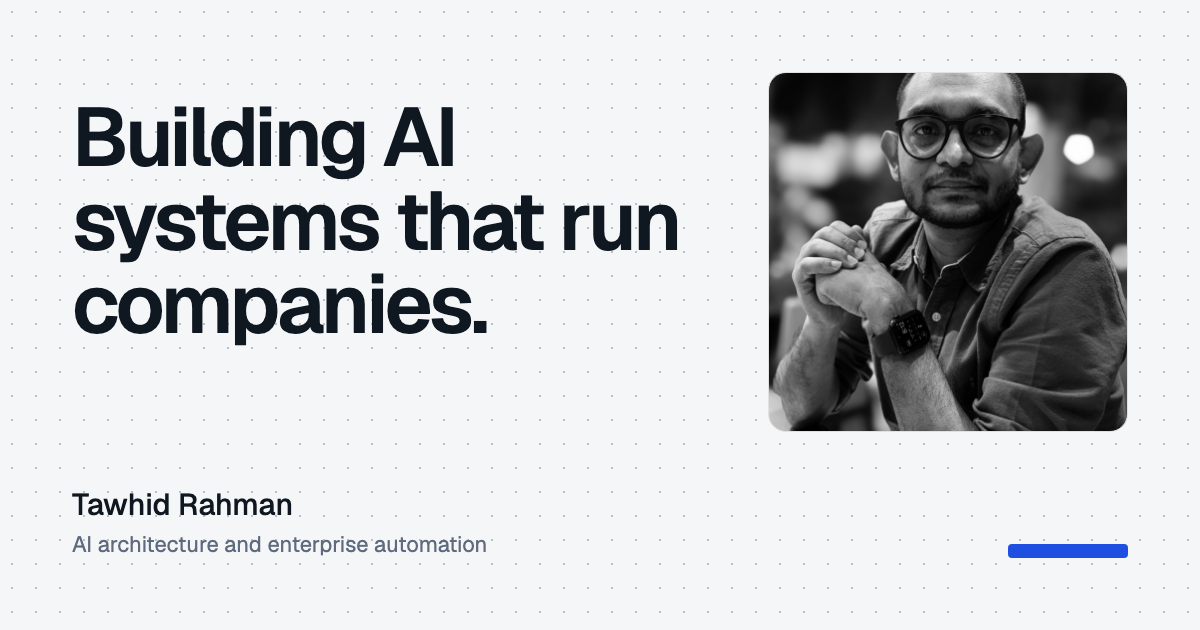
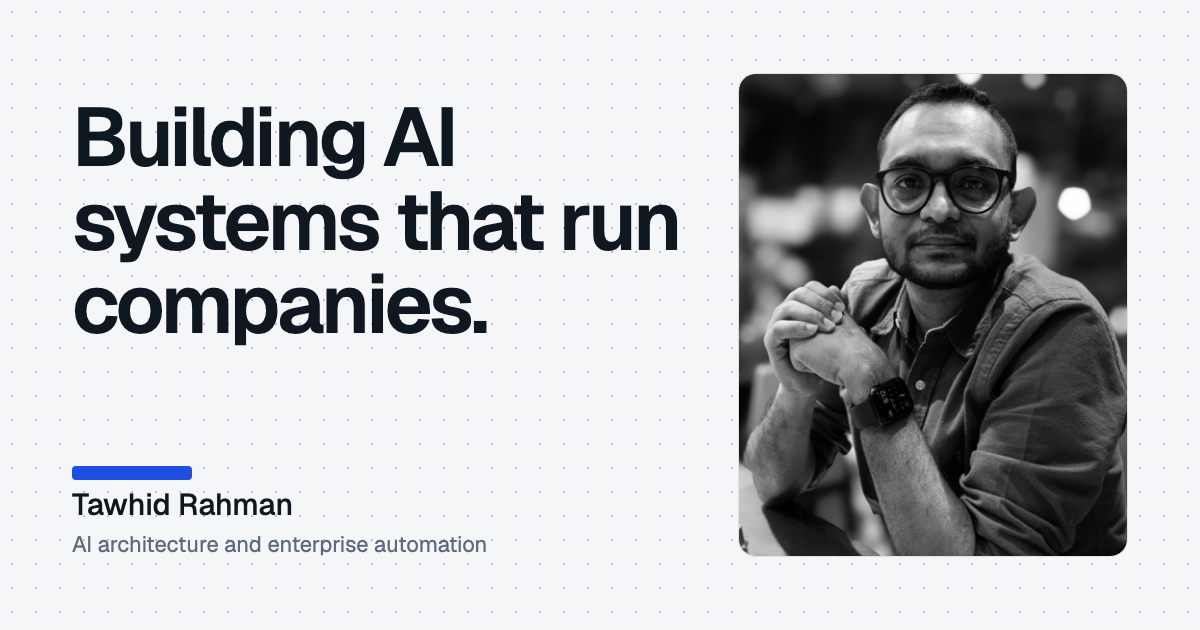
Portrait shows full photo (no top crop); fix portability diagram text overflow; regenerate og image

Changed region(s): [[0.6167, 0.0905, 0.9558, 0.9048], [0.0617, 0.7238, 0.1542, 0.7841]]

diff --git a/work/portable-ai-orchestration.html b/work/portable-ai-orchestration.html
@@ -88,43 +88,39 @@
   </p>
 
   <div class="diagram-wrapper">
-    <svg viewBox="0 0 740 340" xmlns="http://www.w3.org/2000/svg" role="img" aria-label="Architecture portability model">
+    <svg viewBox="0 0 740 392" xmlns="http://www.w3.org/2000/svg" role="img" aria-label="Architecture portability model: a constant layer of four reusable components above a separation boundary, and a variable layer of two components reconfigured per vertical below it">
       <defs>
         <linearGradient id="pg1" x1="0" y1="0" x2="0" y2="1"><stop offset="0%" stop-color="#5B84F0" stop-opacity=".12"/><stop offset="100%" stop-color="#5B84F0" stop-opacity=".02"/></linearGradient>
       </defs>
       <text x="370" y="24" text-anchor="middle" font-family="Geist Mono,monospace" font-size="9.5" fill="#1F4FE0" letter-spacing=".12em">ARCHITECTURE PORTABILITY MODEL</text>
-
       <!-- Universal layer -->
-      <rect x="30" y="50" width="680" height="120" rx="8" fill="url(#pg1)" stroke="#1F4FE0" stroke-width="1.5"/>
+      <rect x="30" y="50" width="680" height="152" rx="8" fill="url(#pg1)" stroke="#1F4FE0" stroke-width="1.5"/>
       <text x="52" y="72" font-family="Geist Mono,monospace" font-size="9" fill="#1F4FE0" letter-spacing=".1em">CONSTANT &mdash; REUSED ACROSS VERTICALS</text>
-
       <text x="52" y="98" font-family="Geist,sans-serif" font-size="11" fill="currentColor" font-weight="600">Orchestration Engine</text>
-      <text x="52" y="114" font-family="Geist,sans-serif" font-size="10" fill="#5E6A7D">Pipeline patterns, scheduling, trigger logic, error handling, retry mechanisms</text>
-
+      <text x="52" y="114" font-family="Geist,sans-serif" font-size="10" fill="#5E6A7D">Pipeline patterns, scheduling, trigger logic,</text>
+      <text x="52" y="128" font-family="Geist,sans-serif" font-size="10" fill="#5E6A7D">error handling, retry mechanisms</text>
       <text x="390" y="98" font-family="Geist,sans-serif" font-size="11" fill="currentColor" font-weight="600">Governance Framework</text>
-      <text x="390" y="114" font-family="Geist,sans-serif" font-size="10" fill="#5E6A7D">Approval gating, consequence assessment, audit logging, version control</text>
-
-      <text x="52" y="140" font-family="Geist,sans-serif" font-size="11" fill="currentColor" font-weight="600">Observation Architecture</text>
-      <text x="52" y="156" font-family="Geist,sans-serif" font-size="10" fill="#5E6A7D">Read/write separation, synthesis cadence, delivery channels, health monitoring</text>
-
-      <text x="390" y="140" font-family="Geist,sans-serif" font-size="11" fill="currentColor" font-weight="600">Skill Interface Contracts</text>
-      <text x="390" y="156" font-family="Geist,sans-serif" font-size="10" fill="#5E6A7D">Input/output schemas, error protocols, versioning, changelog standards</text>
-
+      <text x="390" y="114" font-family="Geist,sans-serif" font-size="10" fill="#5E6A7D">Approval gating, consequence assessment,</text>
+      <text x="390" y="128" font-family="Geist,sans-serif" font-size="10" fill="#5E6A7D">audit logging, version control</text>
+      <text x="52" y="154" font-family="Geist,sans-serif" font-size="11" fill="currentColor" font-weight="600">Observation Architecture</text>
+      <text x="52" y="170" font-family="Geist,sans-serif" font-size="10" fill="#5E6A7D">Read/write separation, synthesis cadence,</text>
+      <text x="52" y="184" font-family="Geist,sans-serif" font-size="10" fill="#5E6A7D">delivery channels, health monitoring</text>
+      <text x="390" y="154" font-family="Geist,sans-serif" font-size="11" fill="currentColor" font-weight="600">Skill Interface Contracts</text>
+      <text x="390" y="170" font-family="Geist,sans-serif" font-size="10" fill="#5E6A7D">Input/output schemas, error protocols,</text>
+      <text x="390" y="184" font-family="Geist,sans-serif" font-size="10" fill="#5E6A7D">versioning, changelog standards</text>
       <!-- Separator -->
-      <line x1="30" y1="190" x2="710" y2="190" stroke="#1F4FE0" stroke-width="1.5" stroke-dasharray="6,4"/>
-      <text x="370" y="206" text-anchor="middle" font-family="Geist Mono,monospace" font-size="8" fill="#1F4FE0" letter-spacing=".1em">SEPARATION BOUNDARY</text>
-
+      <line x1="30" y1="226" x2="710" y2="226" stroke="#1F4FE0" stroke-width="1.5" stroke-dasharray="6,4"/>
+      <text x="370" y="244" text-anchor="middle" font-family="Geist Mono,monospace" font-size="8.5" fill="#1F4FE0" letter-spacing=".1em">SEPARATION BOUNDARY</text>
       <!-- Variable layer -->
-      <rect x="30" y="218" width="680" height="90" rx="8" fill="url(#pg1)" stroke="#1F4FE0" stroke-width="1" stroke-opacity=".5"/>
-      <text x="52" y="240" font-family="Geist Mono,monospace" font-size="9" fill="#1F4FE0" letter-spacing=".1em">VARIABLE &mdash; RECONFIGURED PER VERTICAL</text>
-
-      <text x="52" y="266" font-family="Geist,sans-serif" font-size="10.5" fill="currentColor" font-weight="600">Domain Knowledge</text>
-      <text x="52" y="282" font-family="Geist,sans-serif" font-size="10" fill="#5E6A7D">Skill expertise, scoring criteria, quality thresholds, decision boundaries, terminology</text>
-
-      <text x="390" y="266" font-family="Geist,sans-serif" font-size="10.5" fill="currentColor" font-weight="600">Vertical Configuration</text>
-      <text x="390" y="282" font-family="Geist,sans-serif" font-size="10" fill="#5E6A7D">Compliance requirements, approval authority, regulatory constraints, data sensitivity</text>
-
-      <text x="680" y="332" font-family="Geist Mono,monospace" font-size="8.5" fill="#5E6A7D" text-anchor="end" opacity=".4">&copy; 2026 Tawhid Rahman</text>
+      <rect x="30" y="258" width="680" height="106" rx="8" fill="url(#pg1)" stroke="#1F4FE0" stroke-width="1" stroke-opacity=".5"/>
+      <text x="52" y="280" font-family="Geist Mono,monospace" font-size="9" fill="#1F4FE0" letter-spacing=".1em">VARIABLE &mdash; RECONFIGURED PER VERTICAL</text>
+      <text x="52" y="306" font-family="Geist,sans-serif" font-size="11" fill="currentColor" font-weight="600">Domain Knowledge</text>
+      <text x="52" y="322" font-family="Geist,sans-serif" font-size="10" fill="#5E6A7D">Skill expertise, scoring criteria, quality</text>
+      <text x="52" y="336" font-family="Geist,sans-serif" font-size="10" fill="#5E6A7D">thresholds, decision boundaries, terminology</text>
+      <text x="390" y="306" font-family="Geist,sans-serif" font-size="11" fill="currentColor" font-weight="600">Vertical Configuration</text>
+      <text x="390" y="322" font-family="Geist,sans-serif" font-size="10" fill="#5E6A7D">Compliance requirements, approval authority,</text>
+      <text x="390" y="336" font-family="Geist,sans-serif" font-size="10" fill="#5E6A7D">regulatory constraints, data sensitivity</text>
+      <text x="700" y="384" font-family="Geist Mono,monospace" font-size="8.5" fill="#5E6A7D" text-anchor="end" opacity=".6">&copy; 2026 Tawhid Rahman</text>
     </svg>
     <p class="diagram-caption">Above the separation boundary: universal and reusable. Below: reconfigured for each vertical deployment.</p>
   </div>

diff --git a/assets/site.css b/assets/site.css
@@ -139,7 +139,7 @@ pre .k{color:var(--accent)}
 .home-hero{display:grid;grid-template-columns:1.5fr .7fr;gap:3rem;align-items:end;padding:4rem 0 3rem}
 .home-hero h1{font-size:clamp(2.5rem,5.4vw,4.1rem);line-height:1.03;letter-spacing:-.04em;max-width:13ch;margin-bottom:0}
 .home-hero .lead{font-size:1.15rem;line-height:1.6;color:var(--text-secondary);max-width:54ch;margin:1.4rem 0 0}
-.home-hero .photo{width:100%;height:auto;aspect-ratio:1;object-fit:cover;border-radius:10px;filter:grayscale(1);border:1px solid var(--border);display:block}
+.home-hero .photo{width:100%;height:auto;max-width:340px;justify-self:end;object-fit:contain;border-radius:10px;filter:grayscale(1);border:1px solid var(--border);display:block}
 .facts{display:flex;flex-wrap:wrap;gap:.4rem 2rem;margin-top:2rem;padding-top:1rem;border-top:1px solid var(--border);font-family:var(--mono);font-size:.8rem;color:var(--text-secondary)}
 .facts b{color:var(--text-primary);font-weight:500}
 .home-links{display:flex;gap:.6rem;margin-top:1.6rem;flex-wrap:wrap}
@@ -197,7 +197,7 @@ pre .k{color:var(--accent)}
 }
 @media(max-width:820px){
   .home-hero{grid-template-columns:1fr;gap:2rem}
-  .home-hero .photo{max-width:150px}
+  .home-hero .photo{width:100%;height:auto;max-width:340px;justify-self:end;object-fit:contain;border-radius:10px;filter:grayscale(1);border:1px solid var(--border);display:block}
   .feat-card{grid-template-columns:1fr}
   .grid,.grid.two{grid-template-columns:1fr}
   .shelf-note{display:none}

diff --git a/index.html b/index.html
@@ -50,7 +50,7 @@
       <div class="facts"><span><b>Founder &amp; CEO</b>, Softograph</span><span>Since <b>2012</b></span><span><b>8</b> published references</span></div>
       <div class="home-links"><a class="primary" href="#work">Read the work</a><a href="mailto:tawhid@softograph.com">Get in touch</a></div>
     </div>
-    <img class="photo" src="/assets/profile.jpg" width="720" height="720" alt="Tawhid Rahman">
+    <img class="photo" src="/assets/profile.jpg" width="805" height="1000" alt="Tawhid Rahman">
   </section>
 
   <section id="work">
